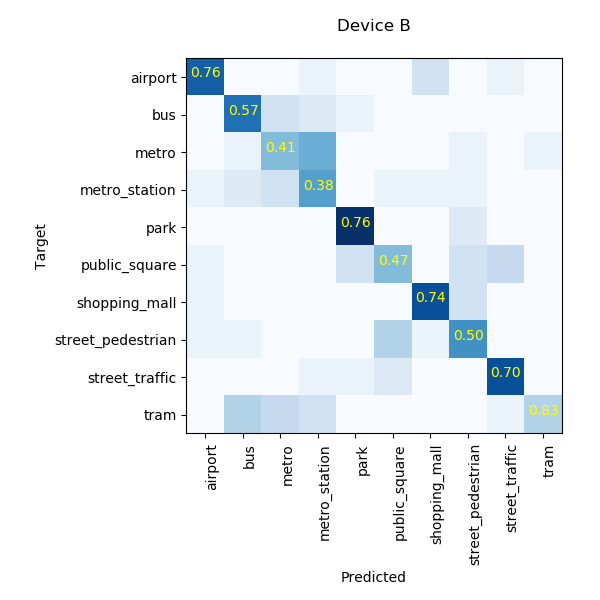
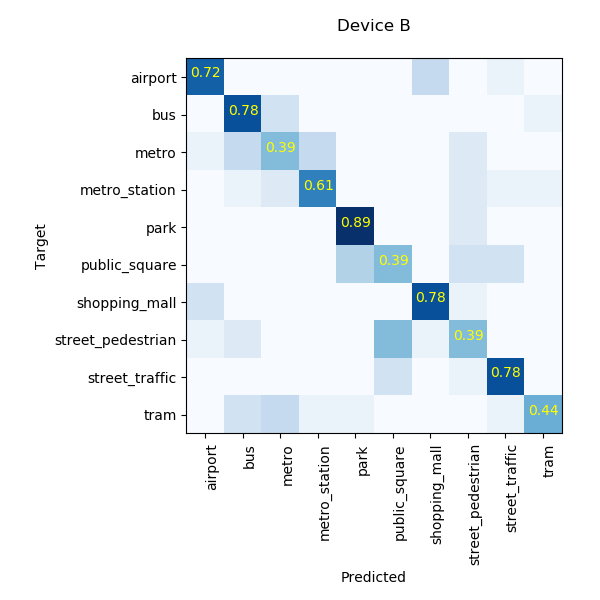
Update confusion matrix figures

diff --git a/README.md b/README.md
@@ -44,26 +44,29 @@ Or run the commands in runme.sh line by line, including:
 The training looks like:
 
 <pre>
-root        : INFO     Loading data time: 7.601605415344238
-root        : INFO     Split development data to 6122 training and 2518 validation data. 
-root        : INFO     Number of train audios in specific devices ['a']: 6122
-root        : INFO     tr_acc: 0.100
-root        : INFO     Number of validate audios in specific devices ['a']: 2518
-root        : INFO     va_acc: 0.100
-root        : INFO     iteration: 0, train time: 0.006 s, validate time: 2.107 s
-root        : INFO     ------------------------------------
+Loading data time: 19.000 s
+Split development data to 6122 training and 2518 validation data. 
+Number of train audios in specific devices ['a']: 6122
+tr_acc: 0.100, tr_loss: 6.437
+Number of validate audios in specific devices ['a']: 2518
+va_acc: 0.100, va_loss: 6.378
+iteration: 0, train time: 0.118 s, validate time: 9.518 s
+------------------------------------
+Number of train audios in specific devices ['a']: 6122
+tr_acc: 0.737, tr_loss: 0.709
+Number of validate audios in specific devices ['a']: 2518
+va_acc: 0.572, va_loss: 1.222
+iteration: 100, train time: 21.682 s, validate time: 8.385 s
+------------------------------------
 ......
-root        : INFO     Number of train audios in specific devices ['a']: 6122
-root        : INFO     tr_acc: 1.000
-root        : INFO     Number of validate audios in specific devices ['a']: 2518
-root        : INFO     va_acc: 0.688
-root        : INFO     iteration: 3000, train time: 6.966 s, validate time: 2.340 s
-root        : INFO     ------------------------------------
-root        : INFO     Number of train audios in specific devices ['a']: 6122
-root        : INFO     tr_acc: 1.000
-root        : INFO     Number of validate audios in specific devices ['a']: 2518
-root        : INFO     va_acc: 0.688
-root        : INFO     iteration: 3100, train time: 6.266 s, validate time: 2.345 s
+------------------------------------
+Number of train audios in specific devices ['a']: 6122
+tr_acc: 1.000, tr_loss: 0.000
+Number of validate audios in specific devices ['a']: 2518
+va_acc: 0.680, va_loss: 1.347
+iteration: 5000, train time: 23.928 s, validate time: 8.553 s
+------------------------------------
+......
 </pre>
 
 ## Result
@@ -76,7 +79,7 @@ Averaged accuracy over 10 classes:
 
 |                   | Device A |
 |:-----------------:|:--------:|
-| averaged accuracy |   68.2%  |
+| averaged accuracy |   68.0%  |
 
 Confusion matrix:
 
@@ -88,7 +91,7 @@ Averaged accuracy over 10 classes of device A, B and C:
 
 |                   | Device A | Device B | Device C |
 |:-----------------:|:--------:|----------|----------|
-| averaged accuracy |   67.4%  | 59.4%    | 57.2%    |
+| averaged accuracy |   67.9%  | 61.7%    | 57.2%    |
 
 Confusion matrix:
 
